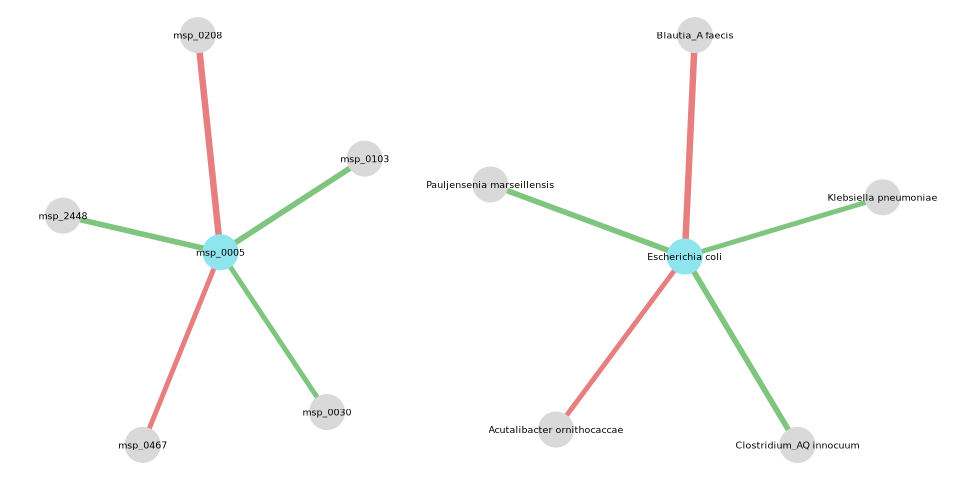
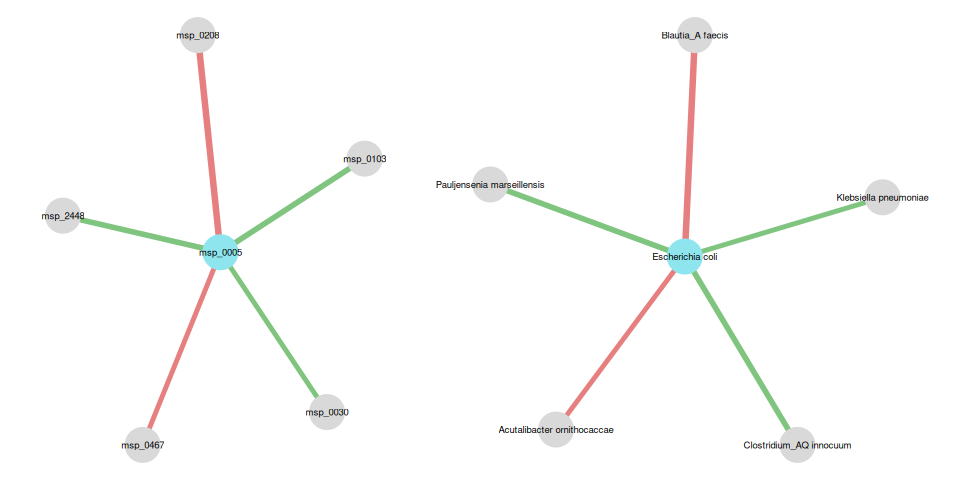
[pacakge] Inflate package and update README

diff --git a/README.md b/README.md
@@ -68,7 +68,7 @@ affiliation table (`taxo`) to provide additional details on the taxa
 when visualizing the results.
 
 ``` r
-library(neighborfinder)
+library(NeighborFinder)
 data(data)
 data(taxo)
 ```
@@ -86,7 +86,8 @@ res_CRC_JPN <- apply_NeighborFinder(
   col_module_id = "msp_id",
   annotation_level = "species",
   prev_level = 0.30,
-  filtering_top = 30
+  filtering_top = 30,
+  .seed = 123
 )
 ```
 
@@ -148,7 +149,8 @@ res_CRC_CHN <- apply_NeighborFinder(
   filtering_top = 30,
   covar = ~study_accession,
   meta_df = metadata$CRC_CHN,
-  sample_col = "secondary_sample_accession"
+  sample_col = "secondary_sample_accession",
+  .seed = 123
 )
 
 plot_CHN <- visualize_network(
@@ -170,7 +172,8 @@ res_CRC_EUR <- apply_NeighborFinder(
   filtering_top = 30,
   covar = ~study_accession,
   meta_df = metadata$CRC_EUR,
-  sample_col = "secondary_sample_accession"
+  sample_col = "secondary_sample_accession",
+  .seed = 123
 )
 
 plot_EUR <- visualize_network(
